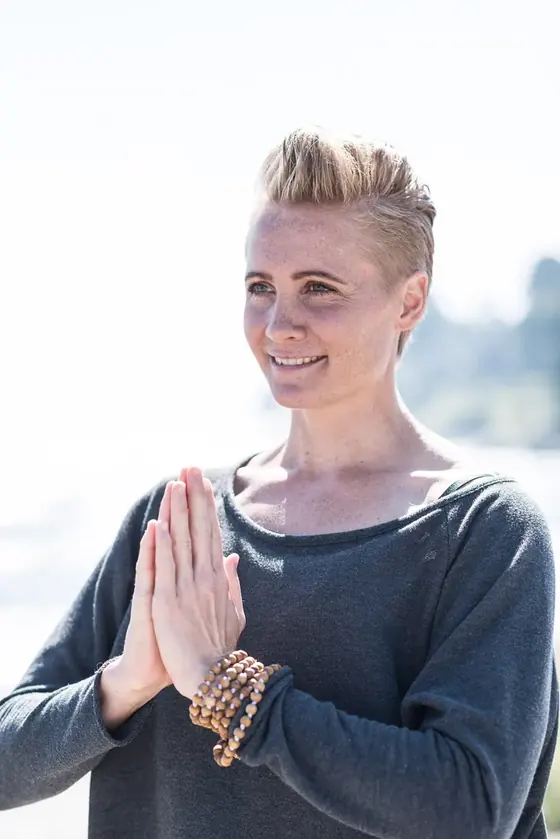
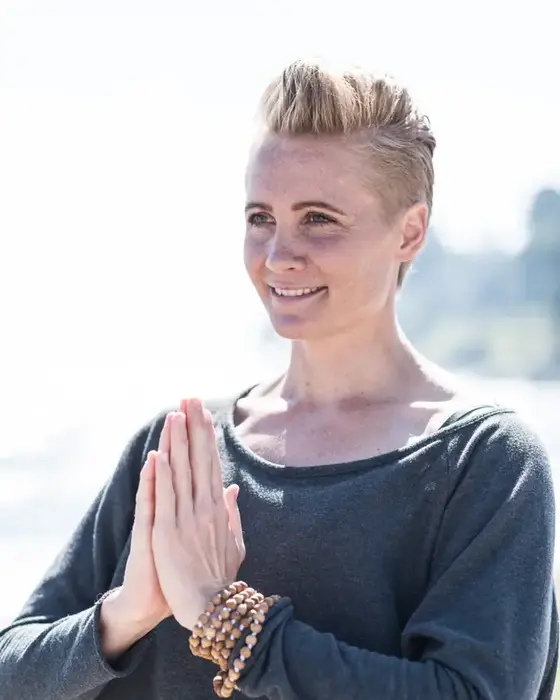
Trim the three images that were still carrying dead weight (#16)
Production Lighthouse came back 100/100/100/100 on three pages and 97-99 on
Workout and People & Performance, with TBT at 0 ms and CLS at 0. What is left
is almost entirely GitHub Pages TTFB (180-220 ms server response), but three
images were still genuinely oversized, and two of them are LCP elements.

- Workout hero (the page's LCP element and largest asset): re-encoded at q64,
  90 KB -> 73 KB. Measured RMSE against the original JPEG barely moves
  (1.8% vs 1.6% at the old quality), and the 800px variant drops 64 KB -> 43 KB.
- klinik-balance renders in a 4:5 box via object-fit: cover, so roughly 30% of
  the source's height was being downloaded and decoded only to be cropped away.
  Cropped centrally to 4:5 up front — the exact region object-fit was already
  showing — which halves it, 60 KB -> 31 KB. width/height updated to match.
- The /om/ hero renders at 320 CSS px on phones but 800w was the smallest
  srcset candidate; adds the 640w variant.

Both re-encodes were checked by eye, not just by byte count.

Claude-Session: https://claude.ai/code/session_01Dtv3BJv16kmBdAoB69vZXu

diff --git a/om/index.html b/om/index.html
@@ -372,7 +372,8 @@
     <div class="wrap">
       <div class="portrait">
         <img src="../assets/images/source/vinnie-davida-soendergaard-portrait-muusfoto.webp"
-             srcset="../assets/images/source/vinnie-davida-soendergaard-portrait-muusfoto-800.webp 800w,
+             srcset="../assets/images/source/vinnie-davida-soendergaard-portrait-muusfoto-640.webp 640w,
+                     ../assets/images/source/vinnie-davida-soendergaard-portrait-muusfoto-800.webp 800w,
                      ../assets/images/source/vinnie-davida-soendergaard-portrait-muusfoto.webp 1100w"
              sizes="(max-width: 860px) 320px, 36vw"
              alt="Portræt af Vinnie Davida Søndergaard" width="1100" height="1032"

diff --git a/klinik/index.html b/klinik/index.html
@@ -515,9 +515,9 @@
         <div class="photo reveal">
           <img src="../assets/images/klinik-balance.webp"
                srcset="../assets/images/klinik-balance-560.webp 560w,
-                       ../assets/images/klinik-balance.webp 734w"
+                       ../assets/images/klinik-balance.webp 744w"
                sizes="(max-width: 760px) calc(100vw - 40px), 42vw"
-               alt="Vinnie Davida Søndergaard – ro, balance og nærvær" loading="lazy" width="734" height="1100">
+               alt="Vinnie Davida Søndergaard – ro, balance og nærvær" loading="lazy" width="744" height="930">
         </div>
         <div class="text reveal">
           <div class="eyebrow">Min tilgang</div>
